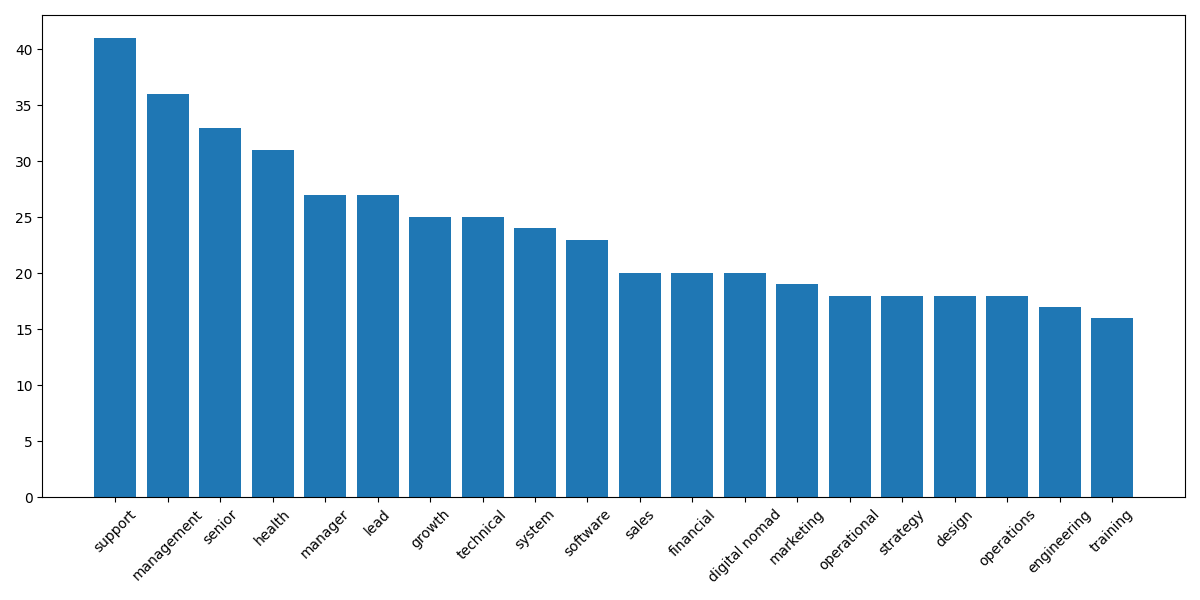
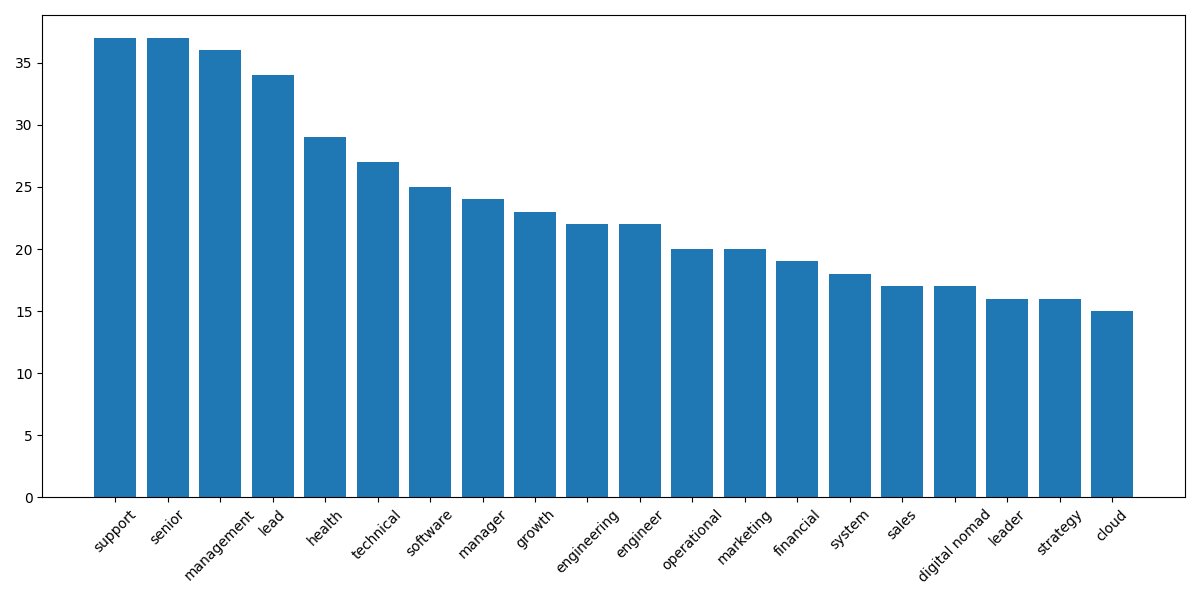
feat: create main.py to run full pipeline

diff --git a/main.py b/main.py
@@ -1,0 +1,15 @@
+from scraper import extract, transform, save_to_csv
+from analysis import count_skills, generate_chart
+
+print("Fetching Jobs")
+
+jobs = extract()
+data = transform(jobs)
+
+save_to_csv(data, 'jobs.csv')
+counts = count_skills(data)
+generate_chart(counts)
+
+print(f"Done! Found {len(data)} Jobs")
+print("Chart saved as skills_chart.png")
+print("Data saved as jobs.csv")
